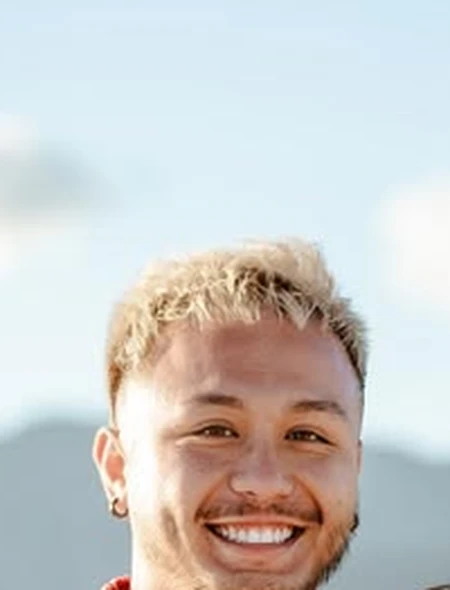
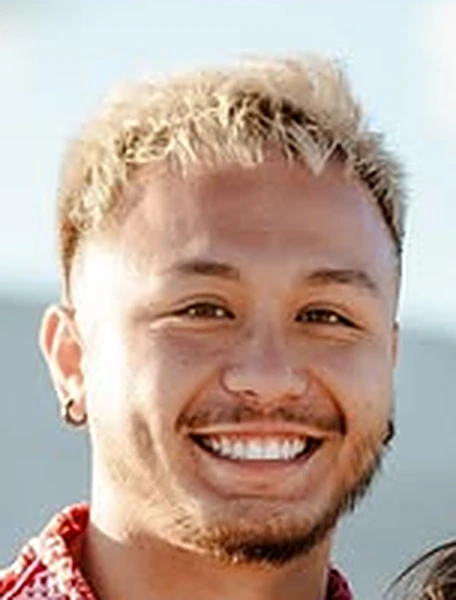
Center Kyle's portrait, align hero/nav/work to one column, remove particles
- Nav, hero and work overlay share the same content column; hero title sized to fit
- Work section: darker scrim and cards shifted right of the heading; counter moved clear of the corner badge
- Remove gold particles from the 3D work section and the hero reel

Claude-Session: https://claude.ai/code/session_01L25bpaRA2uhAtK1nz26Anx

diff --git a/src/style.css b/src/style.css
@@ -171,7 +171,8 @@ button { font: inherit; color: inherit; }
   align-items: center;
   justify-content: space-between;
   gap: 16px;
-  padding: 14px var(--gutter);
+  /* Same column as .container: centred max width plus the shared gutter */
+  padding: 14px max(var(--gutter), calc((100% - var(--max)) / 2 + var(--gutter)));
   transition: background-color var(--dur), backdrop-filter var(--dur), transform var(--dur) var(--ease-out);
 }
 .nav.is-solid { background: rgba(11, 10, 9, 0.72); backdrop-filter: blur(14px); border-bottom: 1px solid var(--line); }
@@ -229,7 +230,7 @@ button { font: inherit; color: inherit; }
   margin-top: 12px;
   font-family: var(--font-display);
   font-weight: 800;
-  font-size: clamp(54px, 11.5vw, 188px);
+  font-size: clamp(36px, 10.6vw, 140px);
   line-height: 0.85;
   letter-spacing: -0.045em;
   white-space: nowrap;
@@ -280,17 +281,29 @@ button { font: inherit; color: inherit; }
 .work { position: relative; height: 500vh; background: var(--ink); }
 .work__stage { position: sticky; top: 0; height: 100svh; overflow: hidden; }
 .work__canvas { position: absolute; inset: 0; width: 100%; height: 100%; cursor: grab; touch-action: pan-y; }
+/* Darkens the left third so the heading always reads over passing cards */
+.work__stage::before {
+  content: '';
+  position: absolute;
+  inset: 0;
+  z-index: 1;
+  pointer-events: none;
+  background: linear-gradient(90deg, rgba(11, 10, 9, 0.94) 0%, rgba(11, 10, 9, 0.8) 38%, transparent 62%),
+    linear-gradient(0deg, rgba(11, 10, 9, 0.7) 0%, transparent 25%);
+}
 .work__overlay {
   position: absolute;
-  left: var(--gutter);
-  top: clamp(88px, 14vh, 140px);
+  z-index: 2;
+  left: max(var(--gutter), calc((100% - var(--max)) / 2 + var(--gutter)));
+  top: clamp(96px, 16vh, 150px);
   pointer-events: none;
 }
 .work__hint { margin-top: 20px; font-size: 14px; color: var(--muted); }
 .work__counter {
   position: absolute;
-  right: var(--gutter);
-  bottom: 32px;
+  z-index: 2;
+  left: max(var(--gutter), calc((100% - var(--max)) / 2 + var(--gutter)));
+  bottom: max(32px, env(safe-area-inset-bottom, 0px));
   font-family: var(--font-display);
   font-weight: 700;
   font-size: 15px;
@@ -302,6 +315,7 @@ button { font: inherit; color: inherit; }
 .no-webgl .work__stage { position: relative; height: auto; padding: 120px 0 0; }
 .no-webgl .work__canvas, .no-webgl .work__hint, .no-webgl .work__counter { display: none; }
 .no-webgl .work__overlay { position: static; padding: 0 var(--gutter); }
+.no-webgl .work__stage::before { display: none; }
 
 /* ---------- Gallery grid ---------- */
 .gallery { padding: clamp(80px, 12vw, 160px) 0; }
@@ -411,7 +425,7 @@ button { font: inherit; color: inherit; }
 .about__inner { display: grid; grid-template-columns: 5fr 6fr; gap: clamp(32px, 6vw, 96px); align-items: center; }
 @media (max-width: 860px) { .about__inner { grid-template-columns: 1fr; } }
 .about__media { border-radius: 24px; overflow: hidden; aspect-ratio: 3 / 4; max-height: 80vh; }
-.about__media img { width: 100%; height: 100%; object-fit: cover; object-position: 50% 70%; }
+.about__media img { width: 100%; height: 100%; object-fit: cover; object-position: 50% 45%; }
 .facts { margin-top: 40px; display: grid; gap: 0; border-top: 1px solid var(--line); }
 .facts li { display: flex; justify-content: space-between; gap: 16px; padding: 16px 0; border-bottom: 1px solid var(--line); font-weight: 600; }
 .facts span { color: var(--muted); font-weight: 500; }
@@ -477,3 +491,6 @@ button { font: inherit; color: inherit; }
   *, *::before, *::after { animation-duration: 0.01ms !important; transition-duration: 0.01ms !important; }
   [data-reveal] { opacity: 1; transform: none; }
 }
+
+/* Work heading is secondary to the flying cards */
+.work .h2 { font-size: clamp(40px, 5vw, 72px); }

diff --git a/src/work3d.js b/src/work3d.js
@@ -46,22 +46,6 @@ export function createWork3D({ canvas, cuts, onOpen, onActive }) {
     return group;
   });
 
-  // Gold dust along the tunnel
-  const DUST = window.matchMedia('(max-width: 640px)').matches ? 900 : 2200;
-  const dustGeo = new THREE.BufferGeometry();
-  const pos = new Float32Array(DUST * 3);
-  for (let i = 0; i < DUST; i++) {
-    pos[i * 3] = (Math.random() - 0.5) * 14;
-    pos[i * 3 + 1] = (Math.random() - 0.5) * 9;
-    pos[i * 3 + 2] = 6 - Math.random() * (cuts.length * SPACING + 12);
-  }
-  dustGeo.setAttribute('position', new THREE.BufferAttribute(pos, 3));
-  const dust = new THREE.Points(
-    dustGeo,
-    new THREE.PointsMaterial({ color: 0xe3c27a, size: 0.035, transparent: true, opacity: 0.8, depthWrite: false, blending: THREE.AdditiveBlending })
-  );
-  scene.add(dust);
-
   // State
   const startZ = 6;
   const endZ = -(cuts.length - 1) * SPACING + 2.5;
@@ -119,8 +103,10 @@ export function createWork3D({ canvas, cuts, onOpen, onActive }) {
 
     camZ += (startZ + (endZ - startZ) * progress - camZ) * Math.min(1, dt * 6);
     smoothPointer.lerp(pointer, Math.min(1, dt * 3));
-    camera.position.set(smoothPointer.x * 0.6, smoothPointer.y * 0.4, camZ);
-    camera.lookAt(smoothPointer.x * 0.2, smoothPointer.y * 0.15, camZ - 6);
+    // On wide screens slide the view so the cards pass to the right of the heading.
+    const shift = camera.aspect > 1.2 ? -2.4 : 0;
+    camera.position.set(shift + smoothPointer.x * 0.6, smoothPointer.y * 0.4, camZ);
+    camera.lookAt(shift + smoothPointer.x * 0.2, smoothPointer.y * 0.15, camZ - 6);
     camera.rotation.z = Math.sin(progress * Math.PI * 2) * 0.06;
 
     raycaster.setFromCamera(ndc, camera);
@@ -150,7 +136,6 @@ export function createWork3D({ canvas, cuts, onOpen, onActive }) {
       lastActive = nearest;
       onActive(nearest);
     }
-    dust.rotation.z = time * 0.02;
     renderer.render(scene, camera);
   }
 

diff --git a/hero-video/src/BlenderClipper.tsx b/hero-video/src/BlenderClipper.tsx
@@ -6,44 +6,11 @@ import {
   random,
   staticFile,
   useCurrentFrame,
-  useVideoConfig,
 } from "remotion";
 
 // Photoreal clipper rendered in Blender/Cycles (see blender/clipper_scene.py), one JPEG per frame.
 export const CLIPPER_FRAMES = 150;
 const pad = (n: number) => String(n).padStart(4, "0");
-
-const GoldDust: React.FC = () => {
-  const frame = useCurrentFrame();
-  const { width, height } = useVideoConfig();
-  return (
-    <AbsoluteFill style={{ pointerEvents: "none", mixBlendMode: "screen" }}>
-      {new Array(70).fill(0).map((_, i) => {
-        const x = random(`dx${i}`) * width;
-        const speed = 0.4 + random(`ds${i}`) * 1.2;
-        const y = (random(`dy${i}`) * height - frame * speed + height * 4) % height;
-        const size = 1.5 + random(`dz${i}`) * 3.5;
-        const twinkle = 0.35 + 0.65 * Math.abs(Math.sin(frame * 0.08 + i));
-        return (
-          <div
-            key={i}
-            style={{
-              position: "absolute",
-              left: x,
-              top: y,
-              width: size,
-              height: size,
-              borderRadius: "50%",
-              backgroundColor: "#e8c77e",
-              boxShadow: `0 0 ${size * 4}px #c9a24a`,
-              opacity: twinkle * 0.7,
-            }}
-          />
-        );
-      })}
-    </AbsoluteFill>
-  );
-};
 
 export const BlenderClipper: React.FC = () => {
   const frame = useCurrentFrame();
@@ -63,7 +30,6 @@ export const BlenderClipper: React.FC = () => {
           translate: `${shake}px ${shake * 0.6}px`,
         }}
       />
-      <GoldDust />
       {/* Light sweep across the lens as the blade fills frame */}
       <AbsoluteFill
         name="Lens sweep"

diff --git a/index.html b/index.html
@@ -100,7 +100,7 @@
       <section id="about" class="about" aria-labelledby="about-title">
         <div class="container about__inner">
           <figure class="about__media" data-reveal>
-            <img src="kyle.webp" alt="Kyle Dominic D. Samonte smiling on an Oʻahu beach" loading="lazy" width="450" height="590" />
+            <img src="kyle.webp" alt="Kyle Dominic D. Samonte smiling on an Oʻahu beach" loading="lazy" width="456" height="600" />
           </figure>
           <div class="about__copy">
             <p class="eyebrow" data-reveal>The barber</p>
